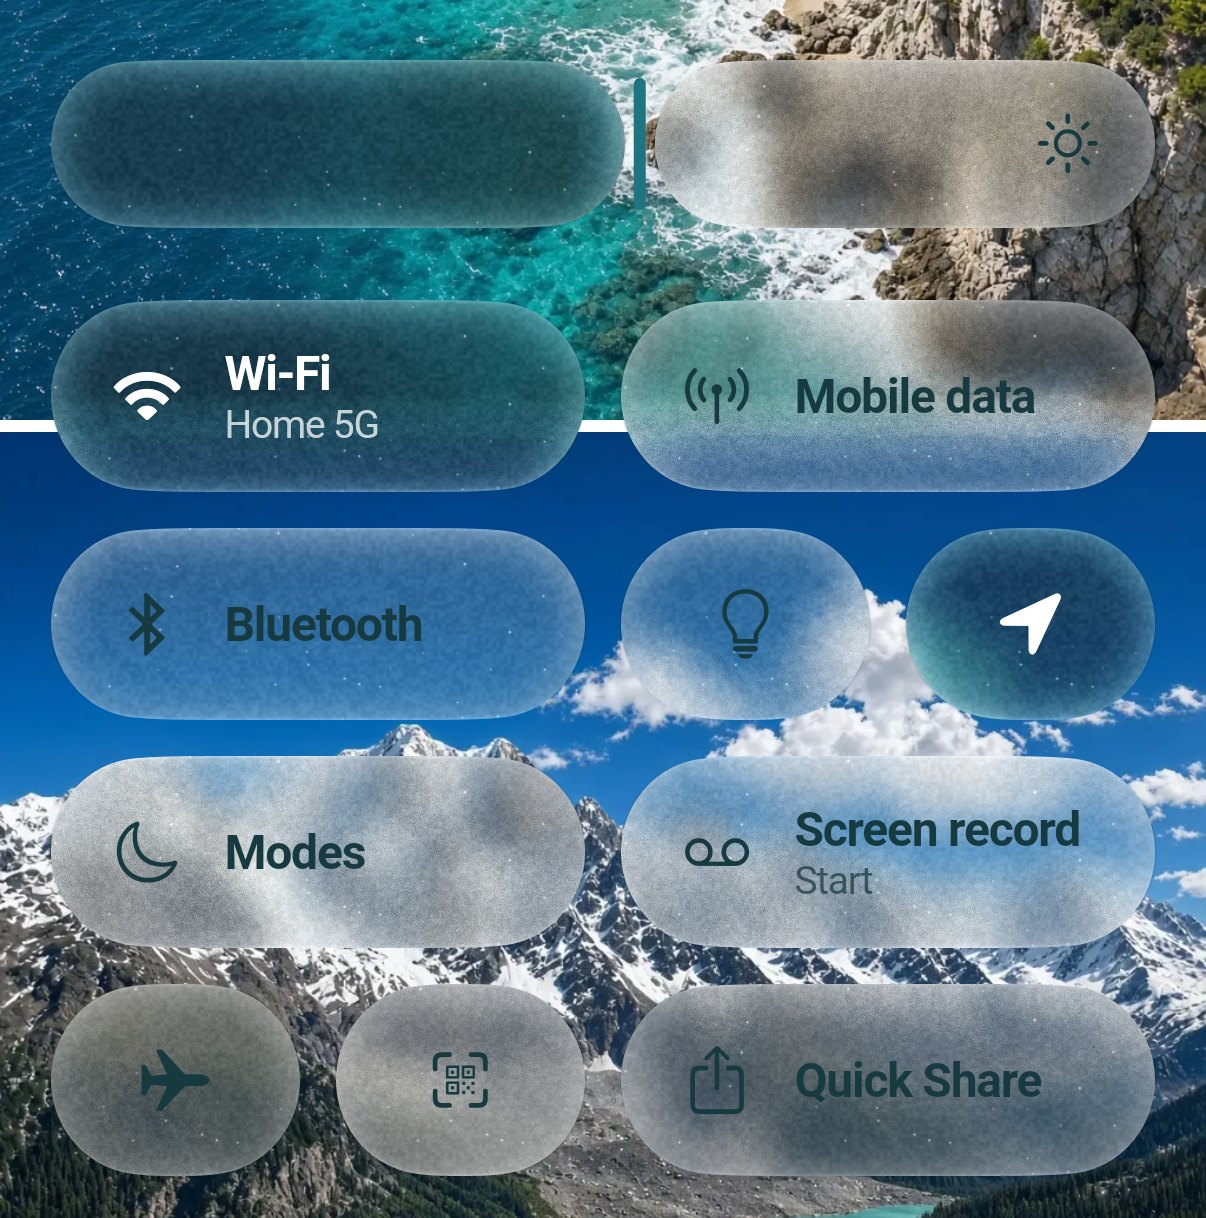
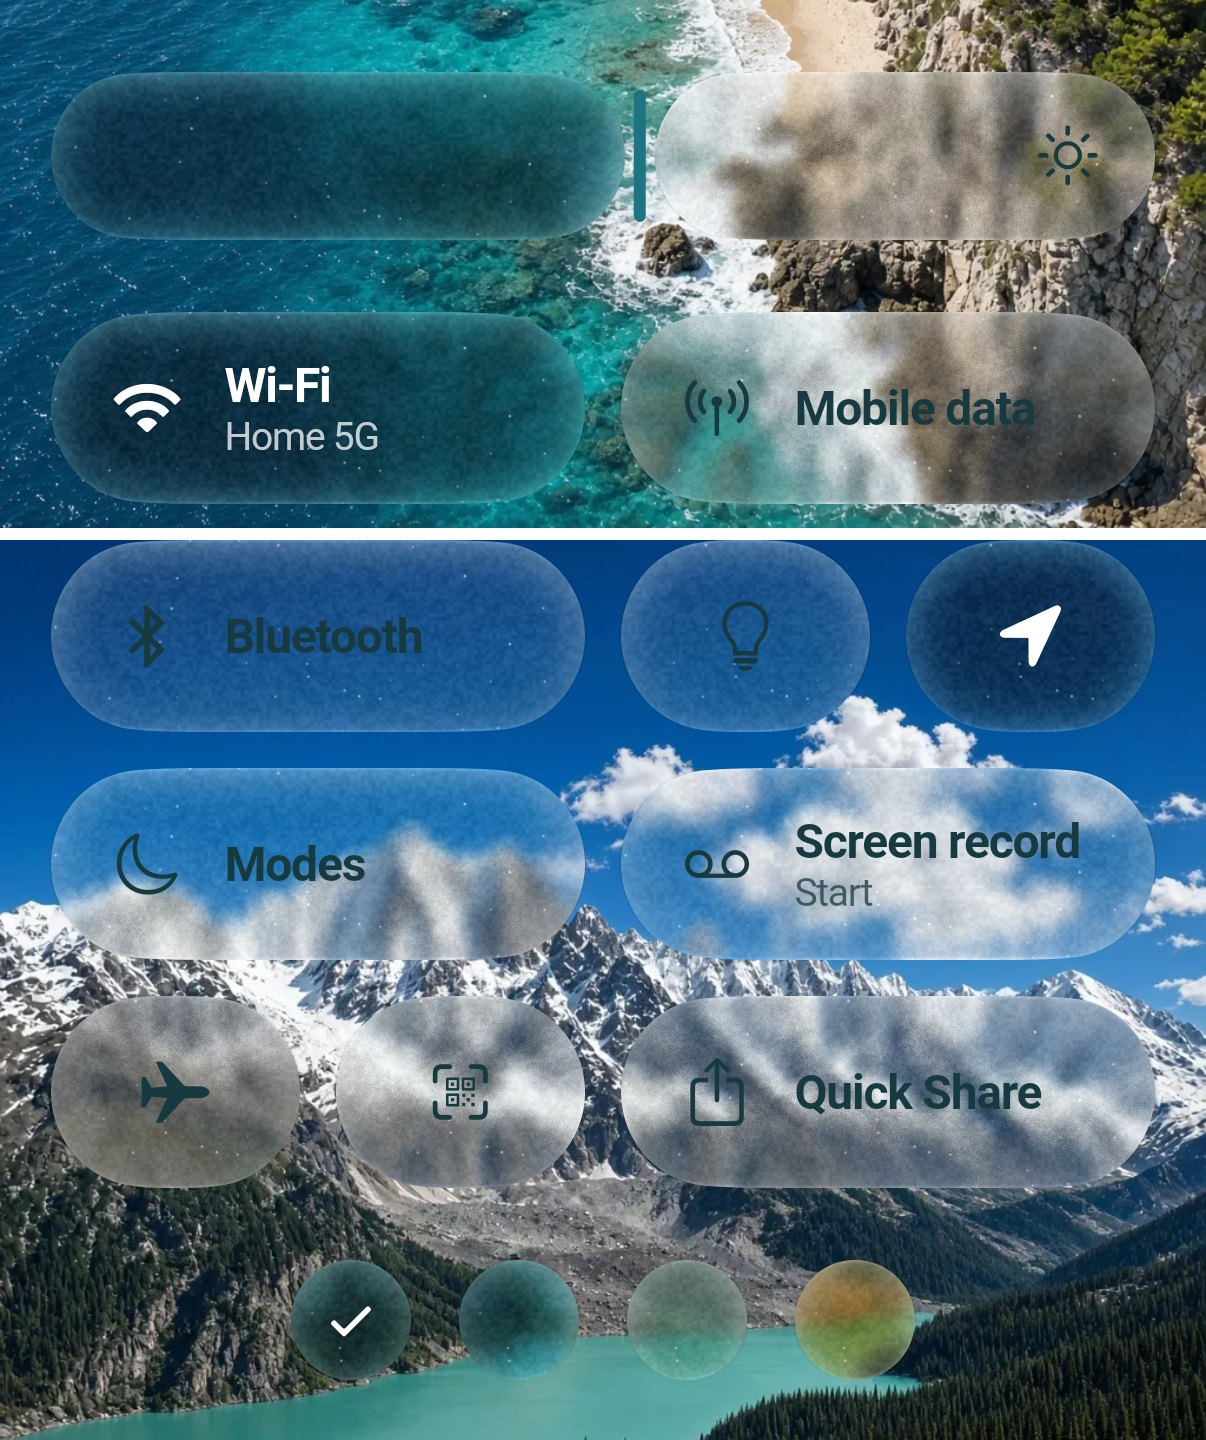
feat(liquid_glass_renderer): clearer sea glass, accent colors in the example
- The seaGlass preset now frosts as lightly as iOS 27's resting glass
  (frost 2) and SeaGlassFinish() scatters less (scatter 0.12, pitting
  0.6), so the backdrop reads through sea glass. The playground's
  frosted white body is thinner too.
- Example: the sea glass scene has accent swatches (teal, aqua, seafoam,
  amber) that recolor the switched-on tiles, keeps the light ink
  readable on light accents, and gives tiles Apple's gel-like stretch
  under liquid glass and the pebble stretch under sea glass. The scene
  stays at sixteen shapes in one layer, so it samples the backdrop once.
- README screenshots refreshed.

Claude-Session: https://claude.ai/code/session_013aWdsL46Rwzt6CACjL85kD

diff --git a/packages/liquid_glass_renderer/example/lib/playground/scenes/sea_glass_scene.dart b/packages/liquid_glass_renderer/example/lib/playground/scenes/sea_glass_scene.dart
@@ -3,35 +3,57 @@ import 'package:liquid_glass_renderer/liquid_glass_renderer.dart';
 import 'package:liquid_glass_renderer_example/playground/scenes/draggable_glass.dart';
 import 'package:liquid_glass_renderer_example/playground/sheet_avoidance.dart';
 
-/// A quick settings panel in sea glass: frosted tiles that turn to deep teal
-/// glass when switched on, and a brightness slider.
+/// A quick settings panel in sea glass: frosted tiles that turn to colored
+/// glass when switched on, a brightness slider, and a row of accent colors.
 ///
 /// Every tile is one shape in the stage's layer. Inactive tiles inherit the
-/// layer's appearance; active tiles carry a teal body color, so switching a
-/// tile only changes its appearance and never needs another backdrop
-/// capture.
+/// layer's appearance; active tiles carry the accent as their body color, so
+/// switching a tile only changes its appearance and never needs another
+/// backdrop capture.
 class SeaGlassScene extends StatefulWidget {
   const SeaGlassScene({super.key});
 
-  /// The appearance of switched-on tiles: a teal sea glass body, or teal
-  /// tinted glass when the layer has no sea glass finish.
-  static LiquidGlassAppearance activeAppearance(BuildContext context) =>
-      LiquidGlassSettings.of(context).seaGlassFinish.isEnabled
-      ? const LiquidGlassAppearance.seaGlass(color: SeaGlassColors.teal)
+  /// The accent colors to pick from, teal first. With the twelve shapes of
+  /// the panel, four swatches fill the stage layer's sixteen shapes, so the
+  /// whole scene still samples the backdrop once.
+  static const accents = [
+    ('Teal', SeaGlassColors.teal),
+    ('Aqua', SeaGlassColors.aqua),
+    ('Seafoam', SeaGlassColors.seafoam),
+    ('Amber', SeaGlassColors.amber),
+  ];
+
+  /// The appearance of switched-on tiles: a sea glass body of [color], or
+  /// glass tinted [color] when the layer has no sea glass finish.
+  static LiquidGlassAppearance activeAppearance(
+    BuildContext context, [
+    Color color = SeaGlassColors.teal,
+  ]) => LiquidGlassSettings.of(context).seaGlassFinish.isEnabled
+      ? LiquidGlassAppearance.seaGlass(color: color)
       : LiquidGlassAppearance.ios27Regular(
           brightness: CupertinoTheme.brightnessOf(context),
-          tint: SeaGlassColors.teal,
+          tint: color,
         );
 
   @override
   State<SeaGlassScene> createState() => _SeaGlassSceneState();
 }
 
-/// Ink on frosted tiles, which follows the appearance, and on teal tiles.
-Color _ink(BuildContext context, {bool active = false}) =>
-    active || CupertinoTheme.brightnessOf(context) == Brightness.dark
-    ? const Color(0xFFFFFFFF)
-    : const Color(0xFF173A40);
+/// Ink on frosted tiles, which follows the appearance, and on tiles in
+/// [accent]: white on deep colors, dark on light ones.
+Color _ink(BuildContext context, {Color? accent}) {
+  final light = accent != null
+      ? accent.computeLuminance() > 0.35
+      : CupertinoTheme.brightnessOf(context) == Brightness.light;
+  return light ? const Color(0xFF173A40) : const Color(0xFFFFFFFF);
+}
+
+/// Squash and stretch for a tile: Apple's gel-like give for liquid glass,
+/// a solid pebble's for sea glass.
+Widget _stretch(BuildContext context, Widget child) =>
+    LiquidGlassSettings.of(context).seaGlassFinish.isEnabled
+    ? LiquidStretch.seaGlass(child: child)
+    : LiquidStretch(child: child);
 
 const _tileHeight = 64.0;
 const _gap = 12.0;
@@ -39,6 +61,7 @@ const _gap = 12.0;
 class _SeaGlassSceneState extends State<SeaGlassScene> {
   final _active = <String>{'Wi-Fi', 'Location'};
   var _brightness = 0.55;
+  var _accent = SeaGlassColors.teal;
 
   void _toggle(String label) => setState(() {
     if (!_active.remove(label)) _active.add(label);
@@ -48,7 +71,7 @@ class _SeaGlassSceneState extends State<SeaGlassScene> {
     icon: icon,
     label: label,
     detail: detail,
-    active: _active.contains(label),
+    accent: _active.contains(label) ? _accent : null,
     onTap: () => _toggle(label),
   );
 
@@ -56,7 +79,7 @@ class _SeaGlassSceneState extends State<SeaGlassScene> {
     icon: icon,
     label: label,
     compact: true,
-    active: _active.contains(label),
+    accent: _active.contains(label) ? _accent : null,
     onTap: () => _toggle(label),
   );
 
@@ -73,6 +96,7 @@ class _SeaGlassSceneState extends State<SeaGlassScene> {
               children: [
                 _BrightnessSlider(
                   value: _brightness,
+                  accent: _accent,
                   onChanged: (value) => setState(() => _brightness = value),
                 ),
                 const SizedBox(height: _gap * 2),
@@ -101,6 +125,11 @@ class _SeaGlassSceneState extends State<SeaGlassScene> {
                   ], bottom: 0),
                   _wide(CupertinoIcons.share, 'Quick Share'),
                 ], bottom: 0),
+                const SizedBox(height: _gap * 2),
+                _AccentPicker(
+                  selected: _accent,
+                  onSelected: (color) => setState(() => _accent = color),
+                ),
               ],
             ),
           ),
@@ -126,8 +155,8 @@ class _Tile extends StatelessWidget {
   const _Tile({
     required this.icon,
     required this.label,
-    required this.active,
     required this.onTap,
+    this.accent,
     this.detail,
     this.compact = false,
   });
@@ -135,25 +164,32 @@ class _Tile extends StatelessWidget {
   final IconData icon;
   final String label;
   final String? detail;
-  final bool active;
+
+  /// The body color while switched on; `null` while off.
+  final Color? accent;
   final bool compact;
   final VoidCallback onTap;
 
+  bool get active => accent != null;
+
   @override
   Widget build(BuildContext context) {
-    final ink = _ink(context, active: active);
+    final ink = _ink(context, accent: accent);
     return Semantics(
       button: true,
       toggled: active,
       label: compact ? label : null,
       child: GestureDetector(
         onTap: onTap,
-        child: LiquidStretch.seaGlass(
-          child: LiquidGlass(
+        child: _stretch(
+          context,
+          LiquidGlass(
             shape: const LiquidRoundedSuperellipse(
               borderRadius: _tileHeight / 2,
             ),
-            appearance: active ? SeaGlassScene.activeAppearance(context) : null,
+            appearance: accent == null
+                ? null
+                : SeaGlassScene.activeAppearance(context, accent!),
             child: _FrostedGlow(
               child: SizedBox(
                 height: _tileHeight,
@@ -225,9 +261,14 @@ class _FrostedGlow extends StatelessWidget {
 /// A brightness slider: a teal glass bar for the level and a frosted bar
 /// for the rest, split by a thin handle.
 class _BrightnessSlider extends StatelessWidget {
-  const _BrightnessSlider({required this.value, required this.onChanged});
+  const _BrightnessSlider({
+    required this.value,
+    required this.accent,
+    required this.onChanged,
+  });
 
   final double value;
+  final Color accent;
   final ValueChanged<double> onChanged;
 
   static const _height = 56.0;
@@ -262,7 +303,10 @@ class _BrightnessSlider extends StatelessWidget {
                       shape: const LiquidRoundedSuperellipse(
                         borderRadius: _height / 2,
                       ),
-                      appearance: SeaGlassScene.activeAppearance(context),
+                      appearance: SeaGlassScene.activeAppearance(
+                        context,
+                        accent,
+                      ),
                       child: const SizedBox.expand(),
                     ),
                   ),
@@ -271,10 +315,12 @@ class _BrightnessSlider extends StatelessWidget {
                     top: 6,
                     bottom: 6,
                     width: 4,
-                    child: const DecoratedBox(
+                    child: DecoratedBox(
                       decoration: BoxDecoration(
-                        color: SeaGlassColors.teal,
-                        borderRadius: BorderRadius.all(Radius.circular(2)),
+                        color: accent,
+                        borderRadius: const BorderRadius.all(
+                          Radius.circular(2),
+                        ),
                       ),
                     ),
                   ),
@@ -306,6 +352,54 @@ class _BrightnessSlider extends StatelessWidget {
           ),
         );
       },
+    );
+  }
+}
+
+/// Small glass pebbles to pick the accent the switched-on tiles are made of.
+class _AccentPicker extends StatelessWidget {
+  const _AccentPicker({required this.selected, required this.onSelected});
+
+  final Color selected;
+  final ValueChanged<Color> onSelected;
+
+  static const _size = 40.0;
+
+  @override
+  Widget build(BuildContext context) {
+    return Row(
+      mainAxisAlignment: MainAxisAlignment.center,
+      children: [
+        for (final (name, color) in SeaGlassScene.accents)
+          Padding(
+            padding: const EdgeInsets.symmetric(horizontal: 8),
+            child: Semantics(
+              button: true,
+              selected: color == selected,
+              label: name,
+              child: GestureDetector(
+                onTap: () => onSelected(color),
+                child: _stretch(
+                  context,
+                  LiquidGlass(
+                    shape: const LiquidOval(),
+                    appearance: SeaGlassScene.activeAppearance(context, color),
+                    child: SizedBox.square(
+                      dimension: _size,
+                      child: color == selected
+                          ? Icon(
+                              CupertinoIcons.checkmark_alt,
+                              size: 20,
+                              color: _ink(context, accent: color),
+                            )
+                          : null,
+                    ),
+                  ),
+                ),
+              ),
+            ),
+          ),
+      ],
     );
   }
 }

diff --git a/packages/liquid_glass_renderer/lib/src/sea_glass.dart b/packages/liquid_glass_renderer/lib/src/sea_glass.dart
@@ -33,12 +33,12 @@ class SeaGlassFinish with Equatable {
   const SeaGlassFinish({
     this.strength = 1,
     this.depth = 18,
-    this.scatter = 0.25,
+    this.scatter = 0.12,
     this.rimGlow = 0.35,
     this.grain = 0.5,
     this.grainSize = 1.4,
     this.sparkle = 0.35,
-    this.pitting = 0.9,
+    this.pitting = 0.6,
     this.stochasticFrost = true,
   });
 
@@ -46,12 +46,12 @@ class SeaGlassFinish with Equatable {
   const SeaGlassFinish.none()
     : strength = 0,
       depth = 18,
-      scatter = 0.25,
+      scatter = 0.12,
       rimGlow = 0.35,
       grain = 0.5,
       grainSize = 1.4,
       sparkle = 0.35,
-      pitting = 0.9,
+      pitting = 0.6,
       stochasticFrost = true;
 
   /// A heavily tumbled, milkier pebble: more scatter, coarser grain and a
@@ -71,12 +71,12 @@ class SeaGlassFinish with Equatable {
   const SeaGlassFinish.clear()
     : strength = 1,
       depth = 14,
-      scatter = 0.08,
+      scatter = 0.05,
       rimGlow = 0.25,
       grain = 0.3,
       grainSize = 1.2,
       sparkle = 0.2,
-      pitting = 0.5,
+      pitting = 0.4,
       stochasticFrost = true;
 
   /// Restores a finish produced by [toJson].

diff --git a/packages/liquid_glass_renderer/example/test/playground_test.dart b/packages/liquid_glass_renderer/example/test/playground_test.dart
@@ -424,6 +424,20 @@ void main() {
     await tester.tap(find.text('Wi-Fi'));
     await tester.pumpAndSettle();
     expect(tile('Wi-Fi').appearance, isNull);
+
+    // The accent swatches recolor the switched-on tiles, still within the
+    // one stage layer.
+    await tester.tap(
+      find.byWidgetPredicate(
+        (widget) => widget is Semantics && widget.properties.label == 'Amber',
+      ),
+    );
+    await tester.pumpAndSettle();
+    expect(
+      tile('Mobile data').appearance,
+      const LiquidGlassAppearance.seaGlass(color: SeaGlassColors.amber),
+    );
+    expect(find.byType(LiquidGlassLayer), findsOneWidget);
     expect(find.text('Light Angle'), findsOneWidget);
     expect(find.text('Scattered Frost'), findsOneWidget);
 

diff --git a/packages/liquid_glass_renderer/test/src/sea_glass_test.dart b/packages/liquid_glass_renderer/test/src/sea_glass_test.dart
@@ -508,7 +508,14 @@ void main() {
         final pixel = await _render(
           tester,
           _scene(
-            _flat(const SeaGlassFinish(grain: 0, sparkle: 0, pitting: 0)),
+            _flat(
+              const SeaGlassFinish(
+                scatter: .25,
+                grain: 0,
+                sparkle: 0,
+                pitting: 0,
+              ),
+            ),
             const LiquidGlassAppearance.seaGlass(color: SeaGlassColors.aqua),
             backdrop: const Row(
               crossAxisAlignment: CrossAxisAlignment.stretch,

diff --git a/packages/liquid_glass_renderer/example/lib/playground/presets.dart b/packages/liquid_glass_renderer/example/lib/playground/presets.dart
@@ -52,10 +52,10 @@ enum GlassStyle {
   };
 }
 
-/// Frosted white sea glass: a pale, light body so the backdrop stays
+/// Frosted white sea glass: a pale, thin body so the backdrop stays
 /// readable through it.
 const seaGlassAppearance = LiquidGlassAppearance.seaGlass(
-  color: Color(0x8CE9F0EC),
+  color: Color(0x59E9F0EC),
 );
 
 /// The glass of the iOS 27 text loupe: a clear, unfrosted lens with a narrow

diff --git a/packages/liquid_glass_renderer/lib/src/liquid_glass_settings.dart b/packages/liquid_glass_renderer/lib/src/liquid_glass_settings.dart
@@ -79,7 +79,7 @@ class LiquidGlassSettings with Equatable {
   /// Give each shape its body color with [LiquidGlassAppearance.seaGlass].
   factory LiquidGlassSettings.seaGlass({
     SeaGlassFinish finish = const SeaGlassFinish(),
-    double frost = 5,
+    double frost = 2,
     double refractionHeight = 36,
     double refractionAmount = 16,
     double highlight = 0.3,

diff --git a/packages/liquid_glass_renderer/example/tool/crop_readme_screenshots.py b/packages/liquid_glass_renderer/example/tool/crop_readme_screenshots.py
@@ -21,7 +21,7 @@ CROPS = {
     "blend": ("blend", 50, 350, 370, 570),
     "colors": ("colors", 70, 345, 332, 590),
     "loupe": ("loupe", 0, 170, 402, 470),
-    "sea-glass": ("seaGlass", 0, 262, 402, 668),
+    "sea-glass": ("seaGlass", 0, 226, 402, 706),
 }
 
 

diff --git a/packages/liquid_glass_renderer/CHANGELOG.md b/packages/liquid_glass_renderer/CHANGELOG.md
@@ -18,6 +18,9 @@
   shape's frost moves with that shape and cross-fades seamlessly across a
   blend group's bridge, and `LiquidStretch.seaGlass` gives a stiffer,
   heavier response.
+- **Clearer sea glass.** The `seaGlass` preset frosts as lightly as iOS
+  27's resting glass (`frost: 2`), and `SeaGlassFinish()` scatters less
+  (`scatter: 0.12`, `pitting: 0.6`), so the backdrop reads through it.
 - **Frost on the shape's surface.** Each shape's frost is evaluated in the
   shape's own frame, so it turns and stretches with a rotated or scaled
   shape, not only moves with it.
